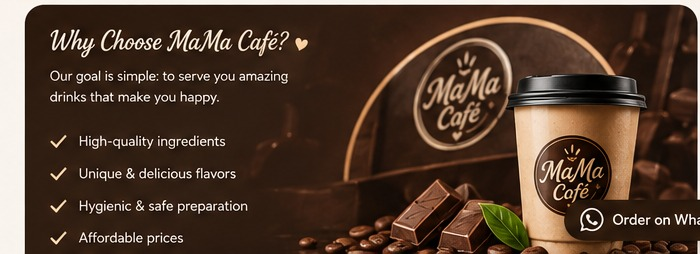
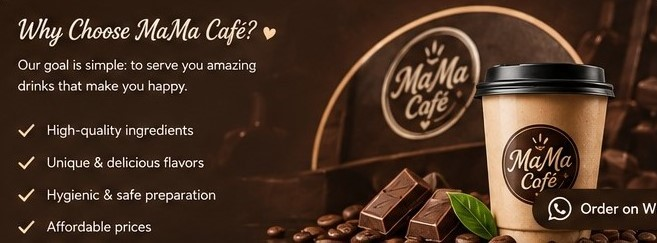
Refactor welcome menu layout and image
Revamp the Welcome page menu layout and right-side hero image. Reworked category tabs into a responsive horizontal scroll container with fixed button widths, truncation, and title attributes; simplified product grid classes and added truncation/title for product names and a dedicated price span. Simplified image onError handler. Replaced why-cafe.jpg and removed the forced 520px height so the right column preserves the image's natural aspect ratio instead of cropping. Overall improvements to responsiveness, accessibility, and visual stability.

diff --git a/resources/js/pages/welcome.tsx b/resources/js/pages/welcome.tsx
@@ -967,13 +967,12 @@ export default function Welcome({
                             })}
                         </div>
                     </div>
-
                     {/* =====================================================
     MENU SECTION
 ===================================================== */}
-                    <section className="py-14 sm:py-18" id="menu">
+                    <section id="menu" className="py-14 sm:py-18">
                         <div className="mx-auto w-[92%] max-w-6xl">
-                            <div className="grid grid-cols-1 gap-6 lg:h-[520px] lg:grid-cols-12 lg:gap-6">
+                            <div className="grid grid-cols-1 gap-6 lg:grid-cols-12 lg:items-start">
                                 {/* =================================================
                 LEFT — OUR MENU
             ================================================= */}
@@ -997,48 +996,60 @@ export default function Welcome({
 
                                     {/* =================================================
                     CATEGORY TABS
-                    Horizontal scrolling is preserved
+                    Horizontal scrolling
                 ================================================= */}
-                                    <div className="menu-category-scroll mb-3 flex shrink-0 gap-2 overflow-x-auto rounded-[16px] border border-[#eadfd6]/80 bg-white/45 p-1.5 pb-2 shadow-[0_8px_22px_rgba(84,49,28,0.06)] backdrop-blur-md">
-                                        {categoryTabs
-                                            .filter((cat) => cat.key !== 'all')
-                                            .map((cat) => {
-                                                const isActive =
-                                                    selectedCategoryKey ===
-                                                    cat.key;
+                                    {/* Categories */}
+                                    <div className="menu-category-scroll mb-3 w-full overflow-x-auto">
+                                        <div className="flex w-max min-w-full gap-2 rounded-[16px] border border-[#eadfd6]/80 bg-white/45 p-2 pb-2 pl-3 shadow-[0_8px_22px_rgba(84,49,28,0.06)] backdrop-blur-md">
+                                            {categoryTabs
+                                                .filter(
+                                                    (cat) => cat.key !== 'all',
+                                                )
+                                                .map((cat) => {
+                                                    const isActive =
+                                                        selectedCategoryKey ===
+                                                        cat.key;
+                                                    const CatIcon = cat.icon;
 
-                                                const CatIcon = cat.icon;
+                                                    return (
+                                                        <button
+                                                            key={cat.key}
+                                                            type="button"
+                                                            title={cat.label}
+                                                            onClick={() =>
+                                                                setSelectedCategoryKey(
+                                                                    cat.key,
+                                                                )
+                                                            }
+                                                            className={`flex w-[112px] shrink-0 items-center justify-center gap-1.5 rounded-[11px] border px-2.5 py-2.5 text-[11px] font-semibold transition sm:w-[120px] sm:text-[12px] ${
+                                                                isActive
+                                                                    ? 'border-[#4a2411] bg-[#4a2411] text-white shadow-[0_6px_14px_rgba(70,35,15,0.16)]'
+                                                                    : 'border-[#eadfd6] bg-white/55 text-[#3d2112] hover:border-[#bfa795] hover:bg-white/75'
+                                                            }`}
+                                                        >
+                                                            <CatIcon className="h-3.5 w-3.5 shrink-0" />
 
-                                                return (
-                                                    <button
-                                                        key={cat.key}
-                                                        type="button"
-                                                        onClick={() =>
-                                                            setSelectedCategoryKey(
-                                                                cat.key,
-                                                            )
-                                                        }
-                                                        className={`flex min-w-max shrink-0 cursor-pointer items-center justify-center gap-1.5 rounded-[11px] border px-3 py-2.5 text-[11px] font-semibold transition sm:px-3.5 sm:text-[12px] ${
-                                                            isActive
-                                                                ? 'border-[#4a2411] bg-[#4a2411] text-white shadow-[0_6px_14px_rgba(70,35,15,0.16)]'
-                                                                : 'border-[#eadfd6] bg-white/55 text-[#3d2112] hover:border-[#bfa795] hover:bg-white/75'
-                                                        } `}
-                                                    >
-                                                        <CatIcon className="h-3.5 w-3.5 shrink-0" />
-                                                        <span>{cat.label}</span>
-                                                    </button>
-                                                );
-                                            })}
+                                                            <span className="truncate whitespace-nowrap">
+                                                                {cat.label}
+                                                            </span>
+                                                        </button>
+                                                    );
+                                                })}
+                                        </div>
                                     </div>
 
                                     {/* =================================================
-                    PRODUCTS
-                    4 COLUMNS
-                    Vertical scrolling preserved
-                    Scrollbar hidden
+                    PRODUCT GRID
+
+                    Mobile  : 2 columns
+                    Tablet  : 3 columns
+                    Desktop : 4 columns
+
+                    Vertical scrolling is preserved.
                 ================================================= */}
                                     <div className="menu-product-list grid min-h-0 flex-1 grid-cols-2 gap-3 overflow-y-auto pr-1 pb-1 sm:grid-cols-3 lg:grid-cols-4">
                                         {filteredProducts.length === 0 ? (
+                                            /* EMPTY STATE */
                                             <div className="col-span-full flex min-h-[220px] flex-col items-center justify-center rounded-2xl border border-dashed border-[#d8c2b2] bg-white/70 px-6 py-12 text-center">
                                                 <Coffee className="mx-auto mb-2 h-9 w-9 text-[#a07c65] opacity-50" />
 
@@ -1065,6 +1076,7 @@ export default function Welcome({
                                                 </button>
                                             </div>
                                         ) : (
+                                            /* PRODUCT CARDS */
                                             filteredProducts.map(
                                                 (item, index) => (
                                                     <article
@@ -1072,6 +1084,7 @@ export default function Welcome({
                                                             item.id || item.name
                                                         }
                                                         className="group relative flex min-h-[145px] flex-col overflow-hidden rounded-[14px] border border-[#eadfd6] bg-[#fffaf5] shadow-xs transition-all duration-300 hover:-translate-y-1 hover:border-[#c59e84] hover:shadow-lg"
+                                                        title={item.name}
                                                     >
                                                         {/* PRODUCT IMAGE */}
                                                         <div className="relative h-[105px] w-full shrink-0 overflow-hidden bg-[#faf2ea]">
@@ -1088,20 +1101,25 @@ export default function Welcome({
                                                                 onError={(
                                                                     e,
                                                                 ) => {
-                                                                    (
-                                                                        e.currentTarget as HTMLImageElement
-                                                                    ).src =
+                                                                    e.currentTarget.src =
                                                                         '/images/drink-item-0.jpg';
                                                                 }}
                                                             />
                                                         </div>
 
-                                                        {/* PRODUCT INFO */}
-                                                        <div className="flex flex-1 items-center justify-between gap-2 px-2.5 py-2.5">
-                                                            <h3 className="brand-heading line-clamp-2 text-[12px] leading-tight font-semibold text-[#2c180d] transition-colors group-hover:text-[#823d21] sm:text-[13px]">
+                                                        {/* PRODUCT NAME + PRICE */}
+                                                        <div className="flex min-h-[42px] flex-1 items-center justify-between gap-2 px-2.5 py-2.5">
+                                                            {/* ONE LINE NAME */}
+                                                            <h3
+                                                                title={
+                                                                    item.name
+                                                                }
+                                                                className="brand-heading min-w-0 flex-1 truncate text-[12px] leading-tight font-semibold text-[#2c180d] transition-colors group-hover:text-[#823d21] sm:text-[13px]"
+                                                            >
                                                                 {item.name}
                                                             </h3>
 
+                                                            {/* PRICE */}
                                                             <span className="shrink-0 text-[12px] font-bold text-[#4a2411] sm:text-[13px]">
                                                                 $
                                                                 {Number(
@@ -1118,18 +1136,21 @@ export default function Welcome({
 
                                 {/* =================================================
                 RIGHT — WHY CHOOSE MAMA CAFÉ
-                Same height as Our Menu
+
+                Starts at same top as Our Menu.
+                Image is NOT cropped.
+                Natural aspect ratio is preserved.
             ================================================= */}
-                                <aside
+                                <div
                                     id="why"
-                                    className="relative h-[520px] overflow-hidden rounded-[22px] border border-[#eadfd6] bg-[#30170b] shadow-lg lg:col-span-5"
+                                    className="overflow-hidden bg-transparent lg:col-span-5"
                                 >
                                     <img
                                         src="/images/why-cafe.jpg"
                                         alt="Why choose MaMa Café"
-                                        className="absolute inset-0 h-full w-full object-cover"
+                                        className="h-55 w-full"
                                     />
-                                </aside>
+                                </div>
                             </div>
                         </div>
                     </section>
